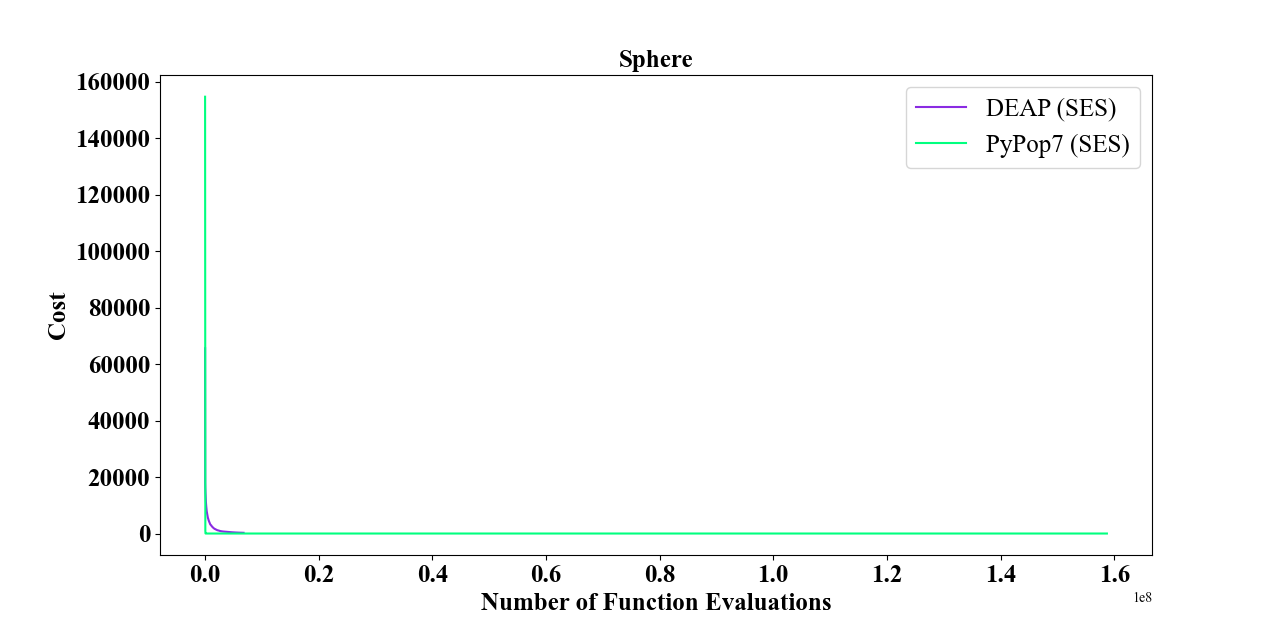
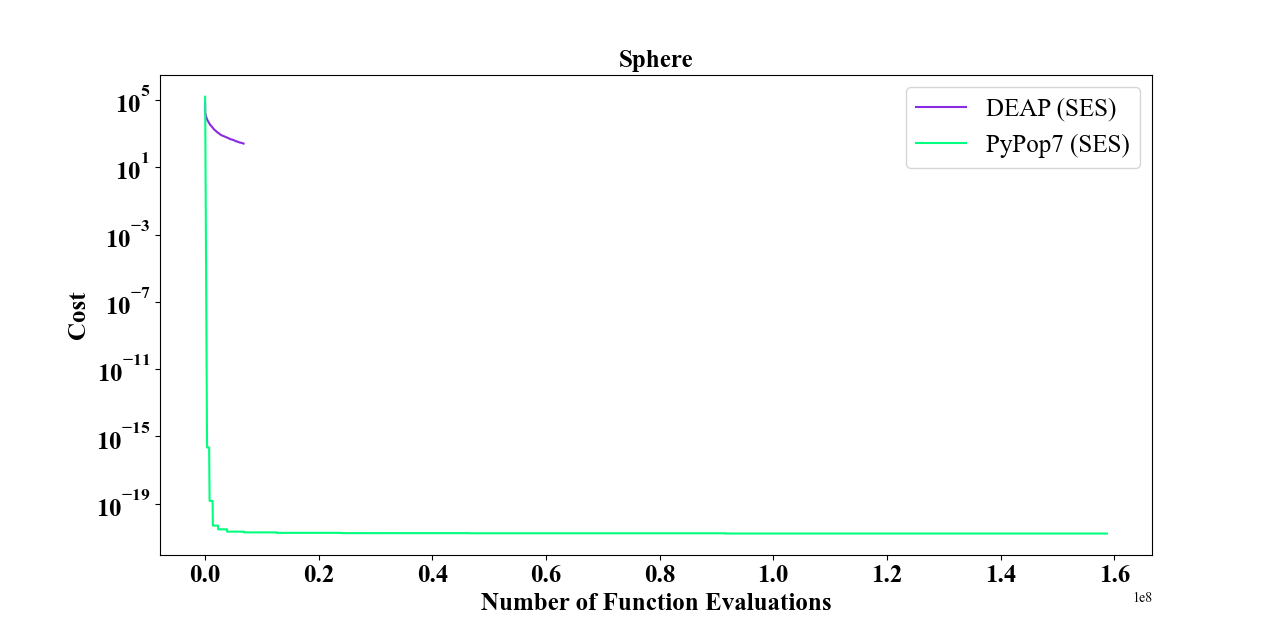
Update docs/efficiency/sphere/compare_deap-ses_vs_pypop7-ses.py

diff --git a/docs/efficiency/sphere/compare_deap-ses_vs_pypop7-ses.py b/docs/efficiency/sphere/compare_deap-ses_vs_pypop7-ses.py
@@ -7,14 +7,13 @@ import pickle  # for data storage
 
 import numpy as np
 import matplotlib.pyplot as plt
-from matplotlib import rcParams
 
 from pypop7.optimizers.core import optimizer
 sys.modules['optimizer'] = optimizer  # for `pickle`
 
 
-def read_pickle(s, i):
-    with open(os.path.join('./', s + '-SES_' + i + '.pickle'), 'rb') as handle:
+def read_pickle(s, ii):
+    with open(os.path.join('./', s + '-SES_' + ii + '.pickle'), 'rb') as handle:
         return pickle.load(handle)
 
 
@@ -51,7 +50,7 @@ if __name__ == '__main__':
         r_f.sort(key=lambda x: (x[0], x[1]))  # sort by first runtime then fitness
         order = r_f[int(n_trials/2)][2]  # for median (but non-standard for simplicity)
         top_order.append(order)
-    top_fitness.append([run[order], fit[order], a])
+        top_fitness.append([run[order], fit[order], a])
     top_fitness.sort(key=lambda x: (x[0], x[1]))
     top_fitness = [t for t in [tr[2] for tr in top_fitness]]
     print('  #top fitness:', top_fitness)
@@ -66,6 +65,7 @@ if __name__ == '__main__':
     plt.yticks(fontsize=18, fontweight='bold')
     plt.title('Sphere', fontsize=18, fontweight='bold')
     plt.legend(labels, fontsize=18)
+    plt.yscale('log')
     plt.show()
 
     fig = plt.figure(figsize=(8.5, 8.5))
